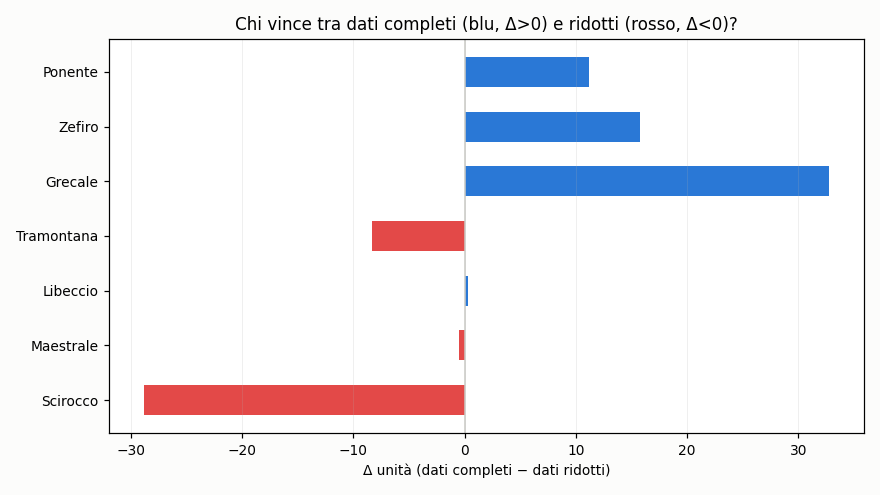
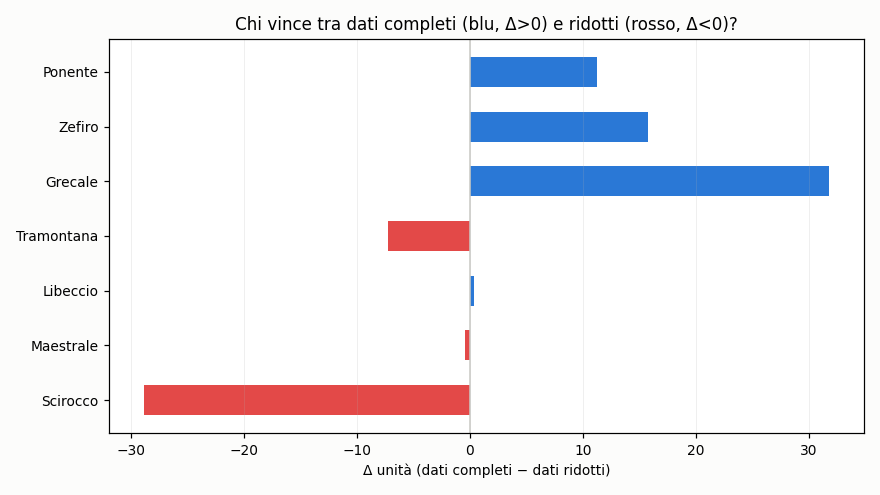
aggiornamento 2026-07-25 14:16 UTC

diff --git a/README.md b/README.md
@@ -37,9 +37,9 @@ scala in unità). Non indichiamo quale.
 
 ## Grafici
 
-![Coppie: dati completi vs ridotti](https://raw.githubusercontent.com/Kitem19/ippica-track-record/main/charts/equity_pairs.png?v=82da4a4a)
+![Coppie: dati completi vs ridotti](https://raw.githubusercontent.com/Kitem19/ippica-track-record/main/charts/equity_pairs.png?v=6d35aa9a)
 
-![Delta per coppia](https://raw.githubusercontent.com/Kitem19/ippica-track-record/main/charts/coppie_delta.png?v=a8dd976e)
+![Delta per coppia](https://raw.githubusercontent.com/Kitem19/ippica-track-record/main/charts/coppie_delta.png?v=16b7231c)
 
 ### Come leggere i grafici
 
@@ -59,8 +59,8 @@ _Poche giornate: numeri ancora rumorosi, si conclude a fine fase (31/7)._
 - **Scirocco**: dati ridotti avanti di 28,9u — qui gli extra non aiutano
 - **Maestrale**: in sostanziale pareggio — troppo presto per dire
 - **Libeccio**: in sostanziale pareggio — troppo presto per dire
-- **Tramontana**: dati ridotti avanti di 8,3u — qui gli extra non aiutano
-- **Grecale**: dati completi avanti di 32,8u
+- **Tramontana**: dati ridotti avanti di 7,3u — qui gli extra non aiutano
+- **Grecale**: dati completi avanti di 31,8u
 - **Zefiro**: dati completi avanti di 15,8u
 - **Ponente**: dati completi avanti di 11,2u
 
@@ -68,22 +68,22 @@ _Poche giornate: numeri ancora rumorosi, si conclude a fine fase (31/7)._
 
 | Sistema | Cassa (u) | P/L (u) | Selezioni | Escluse | Stato |
 |---|---|---|---|---|---|
-| Grecale | 32,5 | +12,5 | 281 | 4 | 🟢 |
+| Grecale | 31,5 | +11,5 | 282 | 4 | 🟢 |
 | Scirocco-B | 28,8 | +8,8 | 210 | 0 | 🟢 |
 | Zefiro | 15,3 | -4,7 | 247 | 5 | 🟢 |
 | Ponente | 10,3 | -9,7 | 194 | 28 | 🟢 |
-| Tramontana-B | 8,0 | -12,0 | 313 | 0 | 🟢 |
-| Maestrale-B | 0,0 | -20,0 | 100 | 212 | 🛑 |
-| Scirocco | 0,0 | -20,1 | 80 | 221 | 🛑 |
-| Grecale-B | 0,0 | -20,2 | 137 | 152 | 🛑 |
-| Tramontana | 0,0 | -20,3 | 45 | 285 | 🛑 |
-| Zefiro-B | 0,0 | -20,5 | 143 | 55 | 🛑 |
-| Maestrale | 0,0 | -20,5 | 104 | 232 | 🛑 |
-| Libeccio | 0,0 | -20,6 | 181 | 142 | 🛑 |
+| Tramontana-B | 7,0 | -13,0 | 314 | 0 | 🟢 |
+| Maestrale-B | 0,0 | -20,0 | 100 | 213 | 🛑 |
+| Scirocco | 0,0 | -20,1 | 80 | 222 | 🛑 |
+| Grecale-B | 0,0 | -20,2 | 137 | 153 | 🛑 |
+| Tramontana | 0,0 | -20,3 | 45 | 286 | 🛑 |
+| Zefiro-B | 0,0 | -20,5 | 143 | 56 | 🛑 |
+| Maestrale | 0,0 | -20,5 | 104 | 233 | 🛑 |
+| Libeccio | 0,0 | -20,6 | 181 | 143 | 🛑 |
 | Libeccio-B | 0,0 | -20,9 | 119 | 157 | 🛑 |
 | Ponente-B | 0,0 | -21,0 | 63 | 77 | 🛑 |
 
-_Aggiornato: 25/07 16:11_
+_Aggiornato: 25/07 16:16_
 ---
 *Nessuna delle informazioni qui pubblicate costituisce consiglio di gioco.
 Il gioco può causare dipendenza — 18+.*
